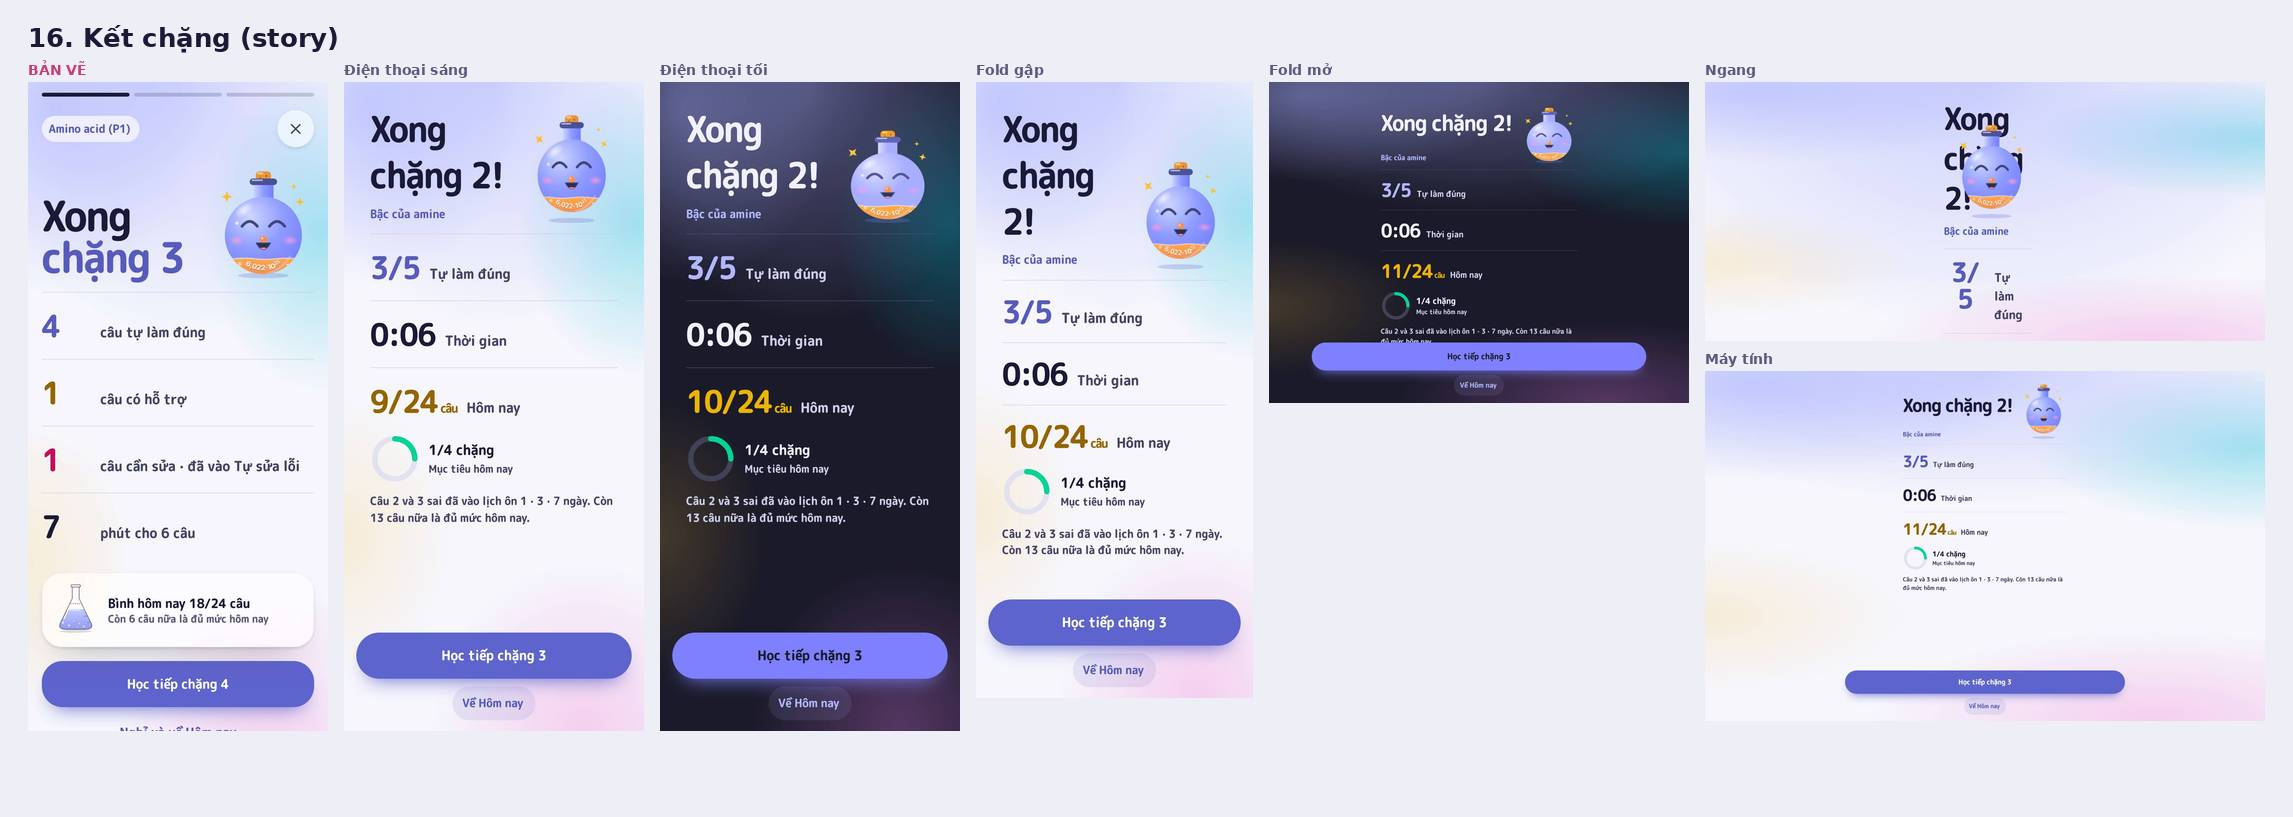
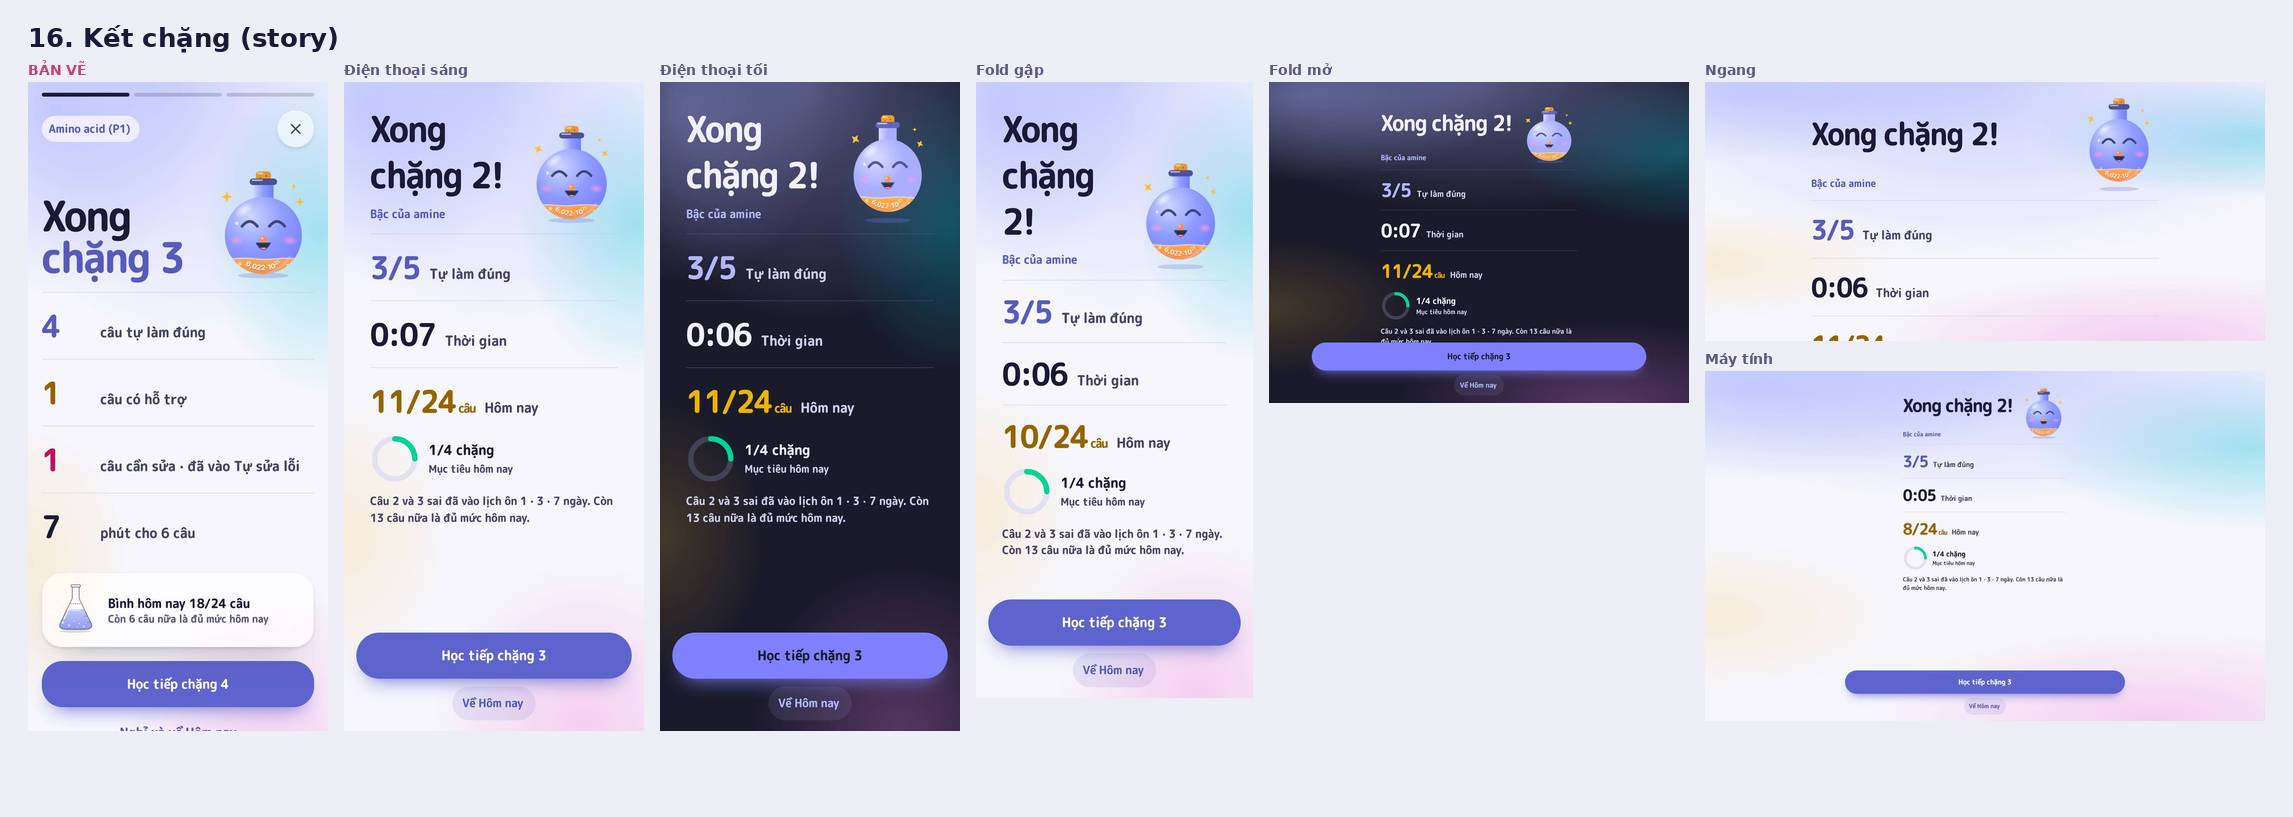
Kính HS: kết chặng giữ bố cục story ở xoay ngang / Fold / máy tính (tiêu đề không bị Mol đè)
Claude-Session: https://claude.ai/code/session_01Ghxeuvsg4FvLEgfmchtUzP

diff --git a/src/styles/trong-lam-bai.css b/src/styles/trong-lam-bai.css
@@ -1193,5 +1193,10 @@ html[data-trong='hs'] .duo-xong .duo-ghi { margin: 12px 0 0; font-size: 14.5px; 
 html[data-trong='hs'] .duo-day[data-xong] { background: transparent; border: 0; }
 html[data-trong='hs'] .duo-day[data-xong] .duo-nut[data-sac], html[data-trong='hs'] .duo-day[data-xong] .duo-lien { border-radius: 30px; background: none; box-shadow: none; color: var(--tr-hs-chu); }
 html[data-trong='hs'] .duo-xong .duo-3 > div b { padding: 0; background: none; box-shadow: none; }
+/* xoay ngang / Fold / máy tính: luật cũ «Bi trái, chữ phải» (0,4,0) đẩy tiêu đề vào cột 132px của Mol ⇒ giữ bố cục story ở mọi khổ */
+html[data-trong='hs'] .duo-xong.duo-xong.duo-xong { grid-template-columns: minmax(0, 1fr) 132px; column-gap: 8px; row-gap: 0; align-items: end; justify-items: stretch; max-width: 560px; }
+html[data-trong='hs'] .duo-xong.duo-xong.duo-xong > :not(.duo-xong-bi):not(.duo-hoa) { grid-column: 1 / -1; }
+html[data-trong='hs'] .duo-xong.duo-xong.duo-xong > :is(h1, .duo-xong-phu, .duo-hoan-hao):not(.duo-xong-bi):not(.duo-hoa) { grid-column: 1; }
+html[data-trong='hs'] .duo-xong.duo-xong.duo-xong > .duo-xong-bi { grid-column: 2; grid-row: 1 / span 2; }
 html[data-trong='hs'] .duo .ht2-lam-pa[data-ket=dung] :is(.ht2-lam-pa-ma, .ht2-lam-pa-nhan) { background: var(--tr-dung-chu); color: var(--tr-trang); }
 html[data-trong='hs'] .duo .ht2-lam-pa[data-ket=sai] :is(.ht2-lam-pa-ma, .ht2-lam-pa-nhan) { background: var(--tr-sai-chu); color: var(--tr-trang); }
